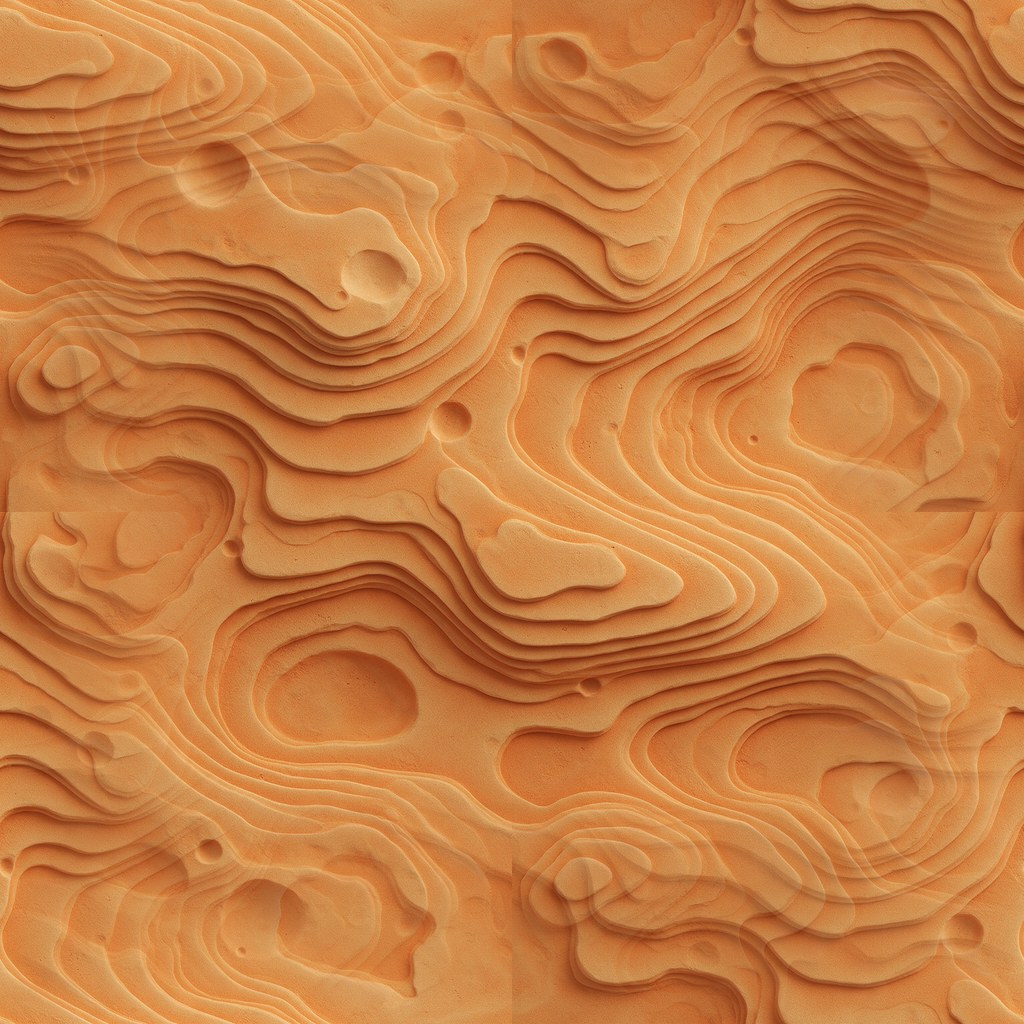
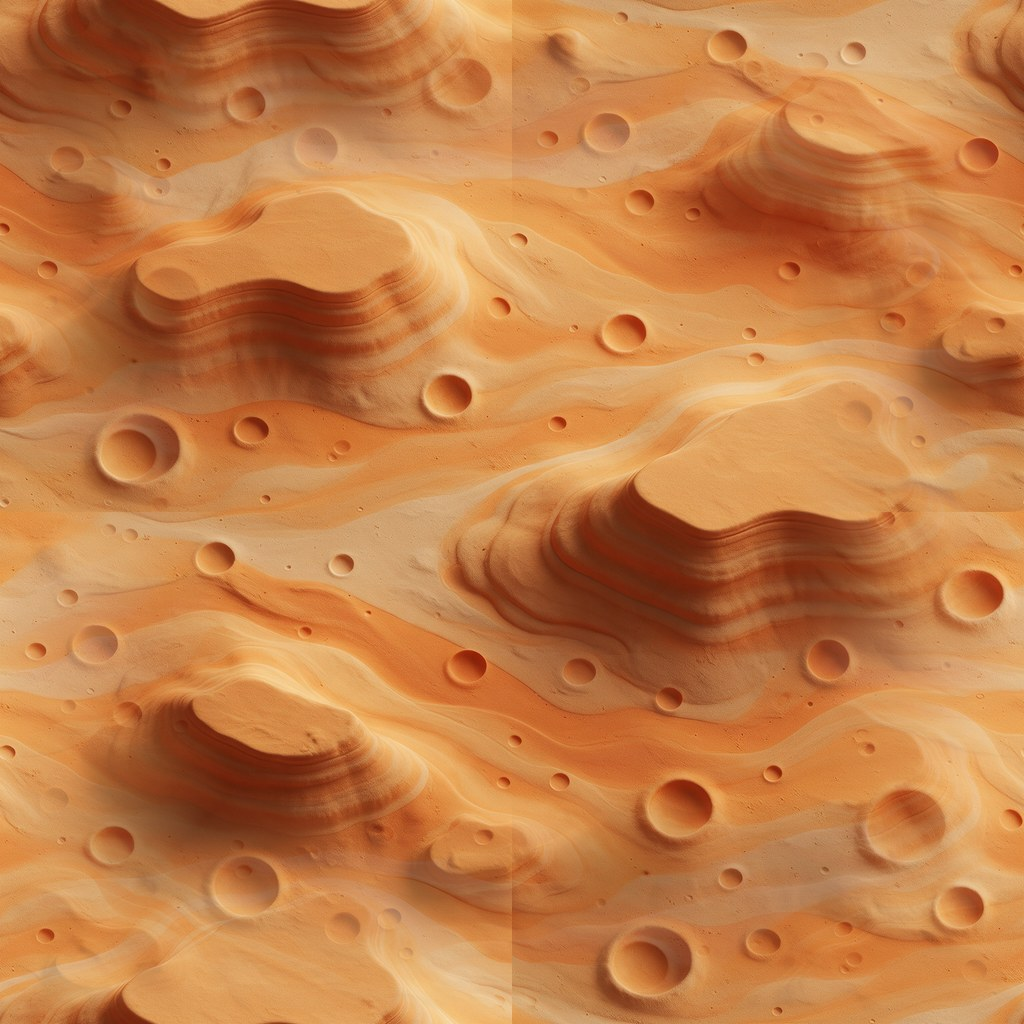
행성 7판 약점 제거 + AI 전체 지도 방식 시험 (U2 재검토)
- 사막 표면 그림 교체(메사+구덩이, 이음새 차이 좌우 5.1·상하 6.4 < 안쪽 8.9)
- 7판 시안: 소수 금은 은빛 산, 금이 주일 때만 결정 판, 꼬리는 부채꼴
- 자기 판정: 영역 합성은 경계가 늘 붙인 자리로 읽힘(4~7판 같은 계열 실패)
- 방식 시험: AI로 행성 전체 지도 2장 생성 → 구에 입힘. 7판보다 자연스러움
  (비교 img/2026-09-17-U2/10). 권장 = 조합별 55장 묶음, 사용자 결정 대기
- 앱(index.html)은 바꾸지 않음

diff --git a/tools/proto-planet-v7.js b/tools/proto-planet-v7.js
@@ -1,0 +1,264 @@
+/* 시안 7(약점 제거: 사막 그림 교체·금 영역 표면화·혜성 꼬리) ← 시안 6(5판 구조 + 생성 표면 그림): 시안 5: 표면을 큰 영역으로 나눈다(상위 3행, 많을수록 넓게). 영역마다 그 오행의 모습으로 —
+   수=바다 / 목=나무 빽빽한 섬 / 화=불타는 땅(압도적이면 태양) / 토=겹겹 모래 언덕 / 금=각진 결정 지대.
+   경계는 해안·그을림으로 잇는다. 관계 효과: 가는 꼬리(빛줄기+먼지), 두꺼운 금색 고리. */
+(function(){
+  function rng(seed){let s=(seed*9301+49297)>>>0||1;return()=>{s^=s<<13;s^=s>>>17;s^=s<<5;return((s>>>0)%100000)/100000;};}
+  function makeNoise(seed){
+    const r=rng(seed),p=new Uint8Array(512),g=[];
+    for(let i=0;i<256;i++){p[i]=i;const t=r()*Math.PI*2,z=r()*2-1,q=Math.sqrt(1-z*z);g.push([q*Math.cos(t),q*Math.sin(t),z]);}
+    for(let i=255;i>0;i--){const j=Math.floor(r()*(i+1));const t=p[i];p[i]=p[j];p[j]=t;}
+    for(let i=0;i<256;i++)p[256+i]=p[i];
+    const fade=t=>t*t*t*(t*(t*6-15)+10),lerp=(a,b,t)=>a+(b-a)*t;
+    const dot=(h,x,y,z)=>{const v=g[h];return v[0]*x+v[1]*y+v[2]*z;};
+    function n(x,y,z){const X=Math.floor(x)&255,Y=Math.floor(y)&255,Z=Math.floor(z)&255;
+      x-=Math.floor(x);y-=Math.floor(y);z-=Math.floor(z);const u=fade(x),v=fade(y),w=fade(z);
+      const A=p[X]+Y,AA=p[A]+Z,AB=p[A+1]+Z,B=p[X+1]+Y,BA=p[B]+Z,BB=p[B+1]+Z;
+      return lerp(lerp(lerp(dot(p[AA],x,y,z),dot(p[BA],x-1,y,z),u),lerp(dot(p[AB],x,y-1,z),dot(p[BB],x-1,y-1,z),u),v),
+        lerp(lerp(dot(p[AA+1],x,y,z-1),dot(p[BA+1],x-1,y,z-1),u),lerp(dot(p[AB+1],x,y-1,z-1),dot(p[BB+1],x-1,y-1,z-1),u),v),w);}
+    return (x,y,z,oct)=>{let s=0,a=.5,f=1,nm=0;for(let i=0;i<(oct||4);i++){s+=a*n(x*f,y*f,z*f);nm+=a;a*=.5;f*=2.07;}return s/nm;};}
+  const hex=h=>[(h>>16&255)/255,(h>>8&255)/255,(h&255)/255];
+  const mix=(a,b,t)=>[a[0]+(b[0]-a[0])*t,a[1]+(b[1]-a[1])*t,a[2]+(b[2]-a[2])*t];
+  const sstep=(e0,e1,x)=>{const t=Math.min(1,Math.max(0,(x-e0)/(e1-e0)));return t*t*(3-2*t);};
+  const clamp01=x=>Math.min(1,Math.max(0,x));
+  const ORDER=['mok','hwa','to','geum','su'];
+  const rankEl=cnt=>ORDER.filter(k=>cnt[k]>0).sort((a,b)=>cnt[b]-cnt[a]||ORDER.indexOf(a)-ORDER.indexOf(b));
+
+  /* ── 영역 나누기: 원소마다 저주파 노이즈 + 치우침(bias). 치우침을 반복 조정해 넓이를 목표 비율에 맞춘다 ── */
+  function makeRegions(cnt,seed){
+    const els=rankEl(cnt).slice(0,3);
+    const pw=els.map(k=>Math.pow(cnt[k],1.6));const tot=pw.reduce((a,b)=>a+b,0);
+    const target=pw.map(v=>v/tot);
+    const N=els.map((k,i)=>makeNoise(seed*31+i*97+5));
+    const bias=els.map(()=>0);
+    const r0=rng(seed*3+1),pts=[];
+    for(let i=0;i<3000;i++){const z=r0()*2-1,t=r0()*Math.PI*2,q=Math.sqrt(1-z*z);pts.push([q*Math.cos(t),z,q*Math.sin(t)]);}
+    const wAt=(x,y,z)=>els.map((k,i)=>N[i](x*1.05,y*1.05,z*1.05,3)+bias[i]);
+    const vals=pts.map(p=>els.map((k,i)=>N[i](p[0]*1.05,p[1]*1.05,p[2]*1.05,3)));
+    /* [자기 검토 뒤 수정] 고정 보폭 .6·40회는 수렴하지 않았다(실측: 목표 46/46 → 80/12).
+       보폭을 줄여 가며 400회 — 넓이 오차를 매번 재고 가장 좋았던 치우침을 쓴다. */
+    let best=null,bestErr=9;
+    for(let it=0;it<400;it++){
+      const f=els.map(()=>0);
+      vals.forEach(v=>{let bi=0,bv=-9;v.forEach((w,i)=>{if(w+bias[i]>bv){bv=w+bias[i];bi=i;}});f[bi]++;});
+      const err=Math.max(...els.map((k,i)=>Math.abs(target[i]-f[i]/pts.length)));
+      if(err<bestErr){bestErr=err;best=bias.slice();}
+      const step=.25*Math.pow(.992,it);
+      els.forEach((k,i)=>{bias[i]+=step*(target[i]-f[i]/pts.length);});}
+    best.forEach((v,i)=>bias[i]=v);
+    /* 한 점의 영역: 가장 큰 가중치의 원소, margin = 1등과 2등의 차(경계일수록 0) */
+    function at(x,y,z){const w=wAt(x,y,z);let a=0,b=-1;for(let i=1;i<w.length;i++)if(w[i]>w[a])a=i;
+      for(let i=0;i<w.length;i++)if(i!==a&&(b<0||w[i]>w[b]))b=i;
+      return {k:els[a],k2:b>=0?els[b]:null,m:b>=0?w[a]-w[b]:1};}
+    return {els,target,at};}
+
+  function paint(TW,TH,f){
+    const out={};const cvs={};
+    ['map','emi','rough','geum','hwa','metal'].forEach(n=>{const c=document.createElement('canvas');c.width=TW;c.height=TH;const x=c.getContext('2d');cvs[n]={c,x,im:x.createImageData(TW,TH)};});
+    for(let py=0;py<TH;py++){const phi=py/TH*Math.PI,y=Math.cos(phi),sp=Math.sin(phi);
+      for(let px=0;px<TW;px++){const th=px/TW*Math.PI*2,x=-Math.cos(th)*sp,z=Math.sin(th)*sp;
+        const o=f(x,y,z);const i=(py*TW+px)*4;
+        const put=(n,v)=>{const d=cvs[n].im.data;d[i]=v[0]*255;d[i+1]=v[1]*255;d[i+2]=v[2]*255;d[i+3]=255;};
+        put('map',o.c);put('emi',o.e||[0,0,0]);put('rough',[o.r,o.r,o.r]);put('geum',[o.g,o.g,o.g]);put('hwa',[o.h,o.h,o.h]);const mt=o.mt||0;put('metal',[mt,mt,mt]);}}
+    Object.keys(cvs).forEach(n=>{cvs[n].x.putImageData(cvs[n].im,0,0);out[n]=new THREE.CanvasTexture(cvs[n].c);});
+    return out;}
+
+  const GLSL_NOISE=`
+    float h3(vec3 p){p=fract(p*.3183099+.1);p*=17.;return fract(p.x*p.y*p.z*(p.x+p.y+p.z));}
+    float vn(vec3 x){vec3 i=floor(x),f=fract(x);f=f*f*(3.-2.*f);
+      return mix(mix(mix(h3(i),h3(i+vec3(1,0,0)),f.x),mix(h3(i+vec3(0,1,0)),h3(i+vec3(1,1,0)),f.x),f.y),
+                 mix(mix(h3(i+vec3(0,0,1)),h3(i+vec3(1,0,1)),f.x),mix(h3(i+vec3(0,1,1)),h3(i+vec3(1,1,1)),f.x),f.y),f.z);}
+    float fbm(vec3 p){float s=0.,a=.5;for(int i=0;i<5;i++){s+=a*vn(p);p*=2.03;a*=.5;}return s;}
+    vec2 sphUV(vec3 n){float th=atan(n.z,-n.x);return vec2(fract(th/6.2831853),1.-acos(clamp(n.y,-1.,1.))/3.1415926);}`;
+  /* 불꽃 껍질: 화 영역(마스크) 위에서만, 가장자리에서 솟는다 */
+  function flameShell(r,seed,mask,power){
+    return new THREE.Mesh(new THREE.SphereGeometry(r,96,64),new THREE.ShaderMaterial({
+      uniforms:{sd:{value:seed%17*1.3},mask:{value:mask},pw:{value:power}},
+      vertexShader:'varying vec3 vP;varying vec3 vN;varying vec3 vV;void main(){vP=normalize(position);vec4 mv=modelViewMatrix*vec4(position,1.);vN=normalize(normalMatrix*normal);vV=normalize(-mv.xyz);gl_Position=projectionMatrix*mv;}',
+      fragmentShader:GLSL_NOISE+`uniform float sd;uniform sampler2D mask;uniform float pw;varying vec3 vP;varying vec3 vN;varying vec3 vV;
+        void main(){float mk=texture2D(mask,sphUV(vP)).r;if(mk<.02)discard;
+          float fr=1.-abs(dot(vN,vV));
+          vec3 q=vP*4.+vec3(sd,sd*.7,0.);q+=vec3(0.,fbm(vP*2.+sd)*1.4,0.);
+          float n=fbm(q);float flame=smoothstep(.45,.72,n)*pow(fr,pw)*mk*1.5;
+          vec3 col=mix(vec3(1.,.3,.04),vec3(1.,.85,.4),smoothstep(.55,.85,n));
+          gl_FragColor=vec4(col*flame*1.8,flame);}`,
+      transparent:true,blending:THREE.AdditiveBlending,depthWrite:false,side:THREE.DoubleSide}));}
+  const rim=(col,power,alpha,r)=>new THREE.Mesh(new THREE.SphereGeometry(r||1.035,48,32),new THREE.ShaderMaterial({
+    uniforms:{c:{value:new THREE.Color(col)}},
+    vertexShader:'varying vec3 vN;varying vec3 vV;void main(){vec4 mv=modelViewMatrix*vec4(position,1.);vN=normalize(normalMatrix*normal);vV=normalize(-mv.xyz);gl_Position=projectionMatrix*mv;}',
+    fragmentShader:`uniform vec3 c;varying vec3 vN;varying vec3 vV;void main(){float f=pow(1.-abs(dot(vN,vV)),${power.toFixed(2)});gl_FragColor=vec4(c*f,f*${alpha.toFixed(2)});}`,
+    side:THREE.BackSide,transparent:true,blending:THREE.AdditiveBlending,depthWrite:false}));
+  let _studio=null;
+  function studioEnv(){
+    if(_studio)return _studio;
+    const c=document.createElement('canvas');c.width=512;c.height=256;const x=c.getContext('2d');
+    const g=x.createLinearGradient(0,0,0,256);g.addColorStop(0,'#eef2f8');g.addColorStop(.45,'#8f98aa');g.addColorStop(.55,'#3c4252');g.addColorStop(1,'#12151c');
+    x.fillStyle=g;x.fillRect(0,0,512,256);
+    [[110,60,70,'rgba(255,255,255,.95)'],[330,80,50,'rgba(220,235,255,.8)'],[430,150,40,'rgba(170,200,255,.5)']].forEach(([cx,cy,r,col])=>{
+      const rg=x.createRadialGradient(cx,cy,0,cx,cy,r);rg.addColorStop(0,col);rg.addColorStop(1,'rgba(255,255,255,0)');x.fillStyle=rg;x.fillRect(cx-r,cy-r,r*2,r*2);});
+    const t=new THREE.CanvasTexture(c);t.mapping=THREE.EquirectangularReflectionMapping;
+    const pm=new THREE.PMREMGenerator(renderer);_studio=pm.fromEquirectangular(t).texture;pm.dispose();t.dispose();return _studio;}
+
+  /* 오행별 표면 그림(이미지 생성, 이음새 없이 다듬음) — 픽셀 배열로 들고 삼면 투영으로 읽는다 */
+  const TEX={};
+  window.loadPlanetTex=base=>Promise.all(['mok','su','hwa','to','geum'].map(k=>new Promise((res,rej)=>{
+    const im=new Image();im.onload=()=>{const c=document.createElement('canvas');c.width=im.width;c.height=im.height;
+      const x=c.getContext('2d');x.drawImage(im,0,0);TEX[k]={w:im.width,h:im.height,d:x.getImageData(0,0,im.width,im.height).data};res();};
+    im.onerror=rej;im.src=base+k+'.jpg';})));
+  function px(k,u,v){const t=TEX[k];let X=Math.floor((u-Math.floor(u))*t.w),Y=Math.floor((v-Math.floor(v))*t.h);const i=(Y*t.w+X)*4;
+    return [t.d[i]/255,t.d[i+1]/255,t.d[i+2]/255];}
+  function tri(k,x,y,z,sc){
+    let wx=Math.abs(x)**12,wy=Math.abs(y)**12,wz=Math.abs(z)**12;const s=wx+wy+wz;wx/=s;wy/=s;wz/=s;
+    const a=px(k,y*sc+.37,z*sc+.11),b=px(k,x*sc+.73,z*sc+.29),c=px(k,x*sc+.19,y*sc+.53);
+    return [a[0]*wx+b[0]*wy+c[0]*wz,a[1]*wx+b[1]*wy+c[1]*wz,a[2]*wx+b[2]*wy+c[2]*wz];}
+  window.makePlanet7=function(cnt,seed){
+    const R=makeRegions(cnt,seed);
+    const main=R.els[0];
+    const sunMode=main==='hwa'&&(R.els.length===1||cnt.hwa>=5);
+    const T=makeNoise(seed*7+3),D=makeNoise(seed*5+11),L=makeNoise(seed*13+2);
+    /* 모래 언덕(토): 등고선처럼 겹겹 — 높이를 계단으로 자르고, 층 가장자리에 밝은 선 */
+    const duneH=(x,y,z)=>{const w=T(x*.7,y*.7,z*.7,2);return T(x*1.3+w*1.6,y*1.3+w*.8,z*1.3,3)*.8+y*.35;};
+    const SC=1.35;
+    /* 그림 반복 크기 — 사막 층·용암 웅덩이는 크게 보여야 읽힌다(실측: 1.35에서는 200px 초상에서 층이 안 보임) */
+    const geumMain=R.els[0]==='geum';
+    const TSC={mok:1.2,su:1.0,hwa:.85,to:.8,geum:1.6};
+    const tex=paint(1024,512,(x,y,z)=>{
+      const g=R.at(x,y,z),k=sunMode?'hwa':g.k,m=sunMode?1:g.m,det=D(x*7,y*7,z*7,3);
+      let c=tri(k,x,y,z,TSC[k]),e=null,r=.9,gm=0,hm=0;
+      if(k==='su'){
+        c=mix(c,[c[0]*.55,c[1]*.6,c[2]*.75],sstep(.05,.3,m));          // 먼 바다일수록 깊게
+        c=mix([.45,.78,.8],c,sstep(0,.04,m));                          // 해안 얕은 물
+        c=mix(c,[1,1,1],sstep(.955,.99,Math.abs(y)+det*.05)*.8);r=.25;
+      }else if(k==='mok'||k==='to'){
+        if(g.k2==='su')c=mix([.86,.8,.62],c,sstep(0,.03,m));            // 모래톱
+        r=.95;
+      }else if(k==='hwa'){
+        const glow=sstep(.5,.85,c[0])*sstep(.2,.5,c[0]-c[2]);
+        e=[c[0]*glow*1.2,c[1]*glow*1.1,c[2]*glow];
+        if(!sunMode){const edge=1-sstep(0,.06,m);const ember=edge*sstep(.2,.45,D(x*9,y*9,z*9,2));
+          e=[e[0]+ember,e[1]+ember*.45,e[2]+ember*.1];}
+        hm=sunMode?1:sstep(0,.05,m);r=.9;
+      }else{
+        /* [7판] 금이 압도적이 아니면 따로 붙인 결정 덩이 대신 표면 자체를 금속으로 — 경계가 뚝 끊기지 않게 바위로 잇는다 */
+        /* 적게 섞인 금 = 주변에서 솟은 은빛 산맥. 기슭은 그 자리 이웃 지형(k2)의 그림에서 바위색으로 넘어간다 */
+        const t=sstep(0,.08,m);
+        const foot=g.k2&&g.k2!=='geum'?tri(g.k2,x,y,z,TSC[g.k2]):[.4,.4,.42];
+        const ridge=1-Math.abs(T(x*5,y*5,z*5,4));
+        const peak=mix([.55,.57,.6],[.93,.95,.98],sstep(.6,.9,ridge));
+        c=mix(mix(foot,[.45,.45,.47],.5),mix(c,peak,.55),t);
+        r=mix([.85],[.35],t)[0];var mt=.35*t;gm=geumMain?sstep(.02,.03,m):0;}
+      if(!sunMode&&k!=='hwa'&&g.k2==='hwa'){const burn=1-sstep(0,.05,m);c=mix(c,[.1,.05,.03],burn*.85);
+        const ember=burn*sstep(.3,.5,D(x*9,y*9,z*9,2));e=[ember,ember*.4,ember*.08];}
+      return {c,e,r,g:gm,h:hm,mt:(k==='geum'&&typeof mt!=='undefined')?mt:0};});
+    const grp=new THREE.Group();
+    // 본체: 영역별 높이
+    const geo=new THREE.SphereGeometry(1,192,128),pos=geo.attributes.position;
+    for(let i=0;i<pos.count;i++){const x=pos.getX(i),y=pos.getY(i),z=pos.getZ(i);
+      const g=R.at(x,y,z),k=sunMode?'hwa':g.k;let h=1;
+      if(k==='mok')h=1+sstep(0,.04,g.m)*.018+T(x*3,y*3,z*3,3)*.006;
+      else if(k==='to'){const t=duneH(x,y,z)*5;h=1+sstep(0,.04,g.m)*(.016+Math.floor(t)*.006+sstep(0,.9,t-Math.floor(t))*.005);}
+      else if(k==='hwa')h=1+(sunMode?0:sstep(0,.04,g.m)*.006);
+      else if(k==='geum')h=1+(R.els[0]==='geum'?sstep(0,.04,g.m)*.006:sstep(0,.1,g.m)*(.02+(1-Math.abs(T(x*5,y*5,z*5,4)))*.025));
+      pos.setXYZ(i,x*h,y*h,z*h);}
+    geo.computeVertexNormals();
+    grp.add(new THREE.Mesh(geo,new THREE.MeshStandardMaterial({map:tex.map,bumpMap:tex.map,bumpScale:.02,emissiveMap:tex.emi,emissive:0xffffff,emissiveIntensity:1.3,roughnessMap:tex.rough,roughness:1,metalnessMap:tex.metal,metalness:1,envMap:studioEnv(),envMapIntensity:.3})));
+    // 금: 각진 결정 판(평면 음영), 마스크 밖은 잘라낸다
+    if(geumMain&&!sunMode){
+      const fg=new THREE.IcosahedronGeometry(1,6);const fp=fg.attributes.position;const jr=rng(seed*17+7);
+      const key=v=>`${v.x.toFixed(4)},${v.y.toFixed(4)},${v.z.toFixed(4)}`;const jit=new Map();const v=new THREE.Vector3();
+      for(let i=0;i<fp.count;i++){v.fromBufferAttribute(fp,i);const kk=key(v);if(!jit.has(kk))jit.set(kk,1.012+jr()*.022);const s=jit.get(kk);fp.setXYZ(i,v.x*s,v.y*s,v.z*s);}
+      /* 금 영역 안 삼각형만 남긴다 — UV 마스크 대신 면 단위로 잘라 가장자리가 결정 면 그대로 끊긴다 */
+      const keep=[],kcol=[];const c3=new THREE.Vector3(),a3=new THREE.Vector3(),b3=new THREE.Vector3();
+      for(let i=0;i<fp.count;i+=3){a3.fromBufferAttribute(fp,i);b3.fromBufferAttribute(fp,i+1);c3.fromBufferAttribute(fp,i+2);
+        const cx=(a3.x+b3.x+c3.x)/3,cy=(a3.y+b3.y+c3.y)/3,cz=(a3.z+b3.z+c3.z)/3,l=Math.hypot(cx,cy,cz);
+        const g=R.at(cx/l,cy/l,cz/l);if(g.k==='geum'&&g.m>.015){keep.push(a3.x,a3.y,a3.z,b3.x,b3.y,b3.z,c3.x,c3.y,c3.z);
+          const cc=tri('geum',cx/l,cy/l,cz/l,SC*3);for(let q=0;q<3;q++)kcol.push(cc[0],cc[1],cc[2]);}}
+      const kg=new THREE.BufferGeometry();kg.setAttribute('position',new THREE.Float32BufferAttribute(keep,3));kg.setAttribute('color',new THREE.Float32BufferAttribute(kcol,3));kg.computeVertexNormals();
+      grp.add(new THREE.Mesh(kg,new THREE.MeshStandardMaterial({vertexColors:true,metalness:.75,roughness:.22,flatShading:true,envMap:studioEnv(),envMapIntensity:1.3})));}
+    // 목: 나무 빽빽한 섬
+    if(R.els.includes('mok')&&!sunMode){
+      const tr=rng(seed*5+3),pts=[];const share=R.target[R.els.indexOf('mok')];const want=Math.round(2600*share);
+      for(let t=0;t<want*8&&pts.length<want;t++){const zz=tr()*2-1,a=tr()*Math.PI*2,q=Math.sqrt(1-zz*zz);const x=q*Math.cos(a),y=zz,z=q*Math.sin(a);
+        const g=R.at(x,y,z);if(g.k!=='mok'||g.m<.03)continue;pts.push([x,y,z,1+sstep(0,.04,g.m)*.018]);}
+      const inst=new THREE.InstancedMesh(new THREE.IcosahedronGeometry(1,2),new THREE.MeshStandardMaterial({roughness:.95}),pts.length);
+      const cols=[0x2a6226,0x3a7a30,0x4a9038,0x5aa244].map(h=>new THREE.Color(h));
+      const m4=new THREE.Matrix4(),qq=new THREE.Quaternion(),up=new THREE.Vector3(0,1,0),vv=new THREE.Vector3(),sc=new THREE.Vector3();
+      pts.forEach((p,k)=>{vv.set(p[0],p[1],p[2]);qq.setFromUnitVectors(up,vv);const s=.022+tr()*.02;vv.multiplyScalar(p[3]+s*.35);
+        m4.compose(vv,qq,sc.set(s,s*.95,s));inst.setMatrixAt(k,m4);inst.setColorAt(k,cols[Math.floor(tr()*cols.length)]);});
+      inst.instanceMatrix.needsUpdate=true;if(inst.instanceColor)inst.instanceColor.needsUpdate=true;grp.add(inst);}
+    // 화: 불꽃(영역 위에서만)
+    if(R.els.includes('hwa')||sunMode){
+      grp.add(flameShell(1.035,seed,tex.hwa,.9));grp.add(flameShell(1.09,seed+4,tex.hwa,.7));
+      if(sunMode)grp.add(flameShell(1.17,seed+8,tex.hwa,.6));}
+    // 대기: 주 원소 색
+    const atm={su:0x9fd2ff,mok:0xaef0c0,to:0xffc890,hwa:0xff8a3a,geum:0xdce6ff}[sunMode?'hwa':main];
+    grp.add(rim(atm,2.3,sunMode?1:.75));
+    return {grp,R,sunMode};};
+
+  /* ── 관계 효과 ── */
+  const ringMat=(c,o)=>new THREE.MeshBasicMaterial({color:c,side:THREE.DoubleSide,transparent:true,opacity:o,depthWrite:false});
+  /* 두꺼운 금색 고리: 토성처럼 결이 있는 넓은 띠 */
+  function thickRing(){
+    const m=new THREE.Mesh(new THREE.RingGeometry(1.28,1.85,160,1),new THREE.ShaderMaterial({
+      vertexShader:'varying vec2 vU;void main(){vU=uv;gl_Position=projectionMatrix*modelViewMatrix*vec4(position,1.);}',
+      fragmentShader:`varying vec2 vU;void main(){float r=length(vU-.5)*2.;float t=(r-.692)/(1.-.692);
+        float band=.55+.45*sin(t*58.)*sin(t*13.+1.);float edge=smoothstep(0.,.06,t)*smoothstep(1.,.85,t);
+        float gap=1.-.8*smoothstep(.58,.6,t)*(1.-smoothstep(.64,.66,t));
+        vec3 c=mix(vec3(.72,.55,.25),vec3(1.,.9,.62),band);gl_FragColor=vec4(c,.85*edge*gap*(.6+.4*band));}`,
+      transparent:true,side:THREE.DoubleSide,depthWrite:false}));
+    m.rotation.set(Math.PI/2-.62,0,.14);return m;}
+  const KIND={
+    인성:{col:0xffd98a,add:(ps)=>ps.add(thickRing())},
+    관성:{col:0xff8a6a,add:(ps)=>{[.62,-.62].forEach(z=>{const h=new THREE.Group();const r=new THREE.Mesh(new THREE.RingGeometry(1.42,1.5,128),ringMat(0xff7a5a,.8));r.rotation.x=Math.PI/2-.55;h.add(r);h.rotation.z=z;ps.add(h);});}},
+    비겁:{col:0xcfe4ff,add:(ps)=>{const m=new THREE.Mesh(new THREE.SphereGeometry(.22,32,24),new THREE.MeshStandardMaterial({color:0xcfd8e6,roughness:.9}));m.position.set(1.3,.8,.5);ps.add(m);}},
+    식상:{col:0x9fffd8,add:(ps,g)=>{for(let k=0;k<3;k++){const a=new THREE.Mesh(new THREE.TorusGeometry(.58+k*.07,.02,8,64),new THREE.MeshBasicMaterial({color:[0x7dffc8,0x9ae6ff,0xc59bff][k],transparent:true,opacity:.5,blending:THREE.AdditiveBlending,depthWrite:false}));a.position.y=.87-k*.04;a.rotation.x=Math.PI/2;g.add(a);}}},
+    재성:{col:0xffe3a0,add:(ps)=>{const n=32;const inst=new THREE.InstancedMesh(new THREE.SphereGeometry(.04,12,8),new THREE.MeshStandardMaterial({color:0xffe08a,metalness:.7,roughness:.25,emissive:0x553300}),n);
+      const m4=new THREE.Matrix4(),q=new THREE.Quaternion().setFromEuler(new THREE.Euler(.85,0,.2));
+      for(let i=0;i<n;i++){const t=i/n*Math.PI*2;const v=new THREE.Vector3(Math.cos(t)*1.55,0,Math.sin(t)*1.55).applyQuaternion(q);m4.makeTranslation(v.x,v.y,v.z);inst.setMatrixAt(i,m4);}ps.add(inst);}},
+  };
+  /* 가는 꼬리: 빛줄기 셋(가운데 선명, 양옆 옅게) + 흩날리는 먼지. 세기 1·2·3 → 길이 1.4·2.6·3.8 */
+  function streakTex(){const c=document.createElement('canvas');c.width=32;c.height=256;const x=c.getContext('2d');
+    const g=x.createLinearGradient(0,256,0,0);g.addColorStop(0,'rgba(255,255,255,1)');g.addColorStop(.3,'rgba(255,255,255,.45)');g.addColorStop(1,'rgba(255,255,255,0)');
+    const h=x.createLinearGradient(0,0,32,0);h.addColorStop(0,'rgba(0,0,0,0)');h.addColorStop(.5,'rgba(0,0,0,1)');h.addColorStop(1,'rgba(0,0,0,0)');
+    x.fillStyle=g;x.fillRect(0,0,32,256);x.globalCompositeOperation='destination-in';x.fillStyle=h;x.fillRect(0,0,32,256);return new THREE.CanvasTexture(c);}
+  function fanTail(len,w0,w1,col,op){
+    const g=new THREE.BufferGeometry();
+    const P=[],U=[],I=[];const SEG=24;
+    for(let i=0;i<=SEG;i++){const t=i/SEG;const w=w0+(w1-w0)*Math.pow(t,.8);const y=t*len;const bend=Math.pow(t,2)*len*.08;
+      P.push(-w/2+bend,y,0, w/2+bend,y,0);U.push(0,t,1,t);
+      if(i<SEG){const a=i*2;I.push(a,a+1,a+2,a+1,a+3,a+2);}}
+    g.setAttribute('position',new THREE.Float32BufferAttribute(P,3));g.setAttribute('uv',new THREE.Float32BufferAttribute(U,2));g.setIndex(I);
+    return new THREE.Mesh(g,new THREE.ShaderMaterial({uniforms:{c:{value:new THREE.Color(col)},op:{value:op}},
+      vertexShader:'varying vec2 vU;void main(){vU=uv;gl_Position=projectionMatrix*modelViewMatrix*vec4(position,1.);}',
+      fragmentShader:`uniform vec3 c;uniform float op;varying vec2 vU;
+        float h(float x){return fract(sin(x*91.7)*43758.5);}
+        void main(){float side=1.-pow(abs(vU.x-.5)*2.,1.6);float along=pow(1.-vU.y,1.7)*smoothstep(0.,.06,vU.y);
+          float str=.75+.25*sin(vU.x*40.+vU.y*6.);gl_FragColor=vec4(c*1.2,op*side*along*str);}`,
+      transparent:true,blending:THREE.AdditiveBlending,depthWrite:false,side:THREE.DoubleSide}));}
+  function addTail(ps,level,col){
+    const L=[0,1.5,2.7,3.9][level];if(!L)return;
+    const holder=new THREE.Group();holder.rotation.z=Math.PI*.78;
+    const fan=fanTail(L,.35,.35+.25*level,col,.62);fan.position.y=.62;holder.add(fan);
+    const core=fanTail(L*.8,.12,.18+.06*level,0xffffff,.45);core.position.y=.66;holder.add(core);
+    const n=Math.round(70*level),pg=new THREE.BufferGeometry(),arr=new Float32Array(n*3),r=rng(level*7+3);
+    for(let i=0;i<n;i++){const t=Math.pow(r(),.8);arr[i*3]=(r()-.5)*(.2+t*(.35+.25*level))+t*t*L*.08;arr[i*3+1]=.7+t*L;arr[i*3+2]=(r()-.5)*.2;}
+    pg.setAttribute('position',new THREE.BufferAttribute(arr,3));
+    holder.add(new THREE.Points(pg,new THREE.PointsMaterial({color:col,size:.03,transparent:true,opacity:.55,blending:THREE.AdditiveBlending,depthWrite:false})));
+    holder.position.z=-.3;ps.add(holder);}
+
+  window.renderPlanet7=function(cnt,seed,rel,level){
+    const W=512,S=256;const ps=new THREE.Scene();ps.environment=scene.environment;
+    ps.add(new THREE.AmbientLight(0x9098b8,.42));
+    const k=new THREE.DirectionalLight(0xfff4e6,1.25);k.position.set(5,6,8);ps.add(k);
+    const rl=new THREE.DirectionalLight(0x9fc0ff,.5);rl.position.set(-6,3,-9);ps.add(rl);
+    const {grp}=makePlanet7(cnt,seed);grp.rotation.set(.3,seed*.9,.1);ps.add(grp);
+    if(rel){KIND[rel].add(ps,grp);addTail(ps,level||0,KIND[rel].col);}
+    const cam=new THREE.PerspectiveCamera(30,1,.1,100);cam.position.set(0,.3,1).normalize().multiplyScalar((rel?3.0:1.4)/Math.tan(15*Math.PI/180));
+    cam.lookAt(rel?.75:0,rel?-.75:0,0);
+    const rt=new THREE.WebGLRenderTarget(W,W);const pr=renderer.getRenderTarget(),pc=renderer.getClearColor(new THREE.Color()),pa=renderer.getClearAlpha();
+    const px=new Uint8Array(W*W*4);renderer.setRenderTarget(rt);renderer.setClearColor(0x0b0c14,1);renderer.clear();renderer.render(ps,cam);renderer.readRenderTargetPixels(rt,0,0,W,W,px);
+    renderer.setRenderTarget(pr);renderer.setClearColor(pc,pa);rt.dispose();
+    const big=document.createElement('canvas');big.width=big.height=W;const bx=big.getContext('2d');const img=bx.createImageData(W,W);
+    for(let y=0;y<W;y++)img.data.set(px.subarray((W-1-y)*W*4,(W-y)*W*4),y*W*4);bx.putImageData(img,0,0);
+    const c=document.createElement('canvas');c.width=c.height=S;const cx=c.getContext('2d');cx.imageSmoothingQuality='high';cx.drawImage(big,0,0,S,S);return c;};
+  window.rankEl5=rankEl;
+})();

diff --git a/docs/현황.md b/docs/현황.md
@@ -18,7 +18,8 @@
 ## 지금 위치
 
 **[2026-09-17 U2] 폰에서 홈 열기 + 검토 2건.** 태그바 「은하 ☰」를 은하 화면에서 누르면 홈. 오행 비율 행성 시안
-(띠/얼룩)과 가독성 진단(개인 해석 56% · 공통 설명 26%가 같은 모양으로 섞임) → **사용자 결정 2건 대기**
+(~~띠/얼룩~~ → 영역 합성 7판까지 → 7판 재검토 결과 **AI 전체 지도 방식이 더 자연스러움**, 55장 묶음 [권장])과
+가독성 진단(개인 해석 56% · 공통 설명 26%가 같은 모양으로 섞임) → **사용자 결정 5건 대기**
 (`2026-09-17-U2-폰홈-오행행성-가독성검토.md`).
 
 **[2026-09-17 U1] 첫 화면 홈 · 행성 초상 · 이름표 누르기.** 왼쪽 패널의 그룹 목록을 없애고 홈(내 행성·사람 격자·
